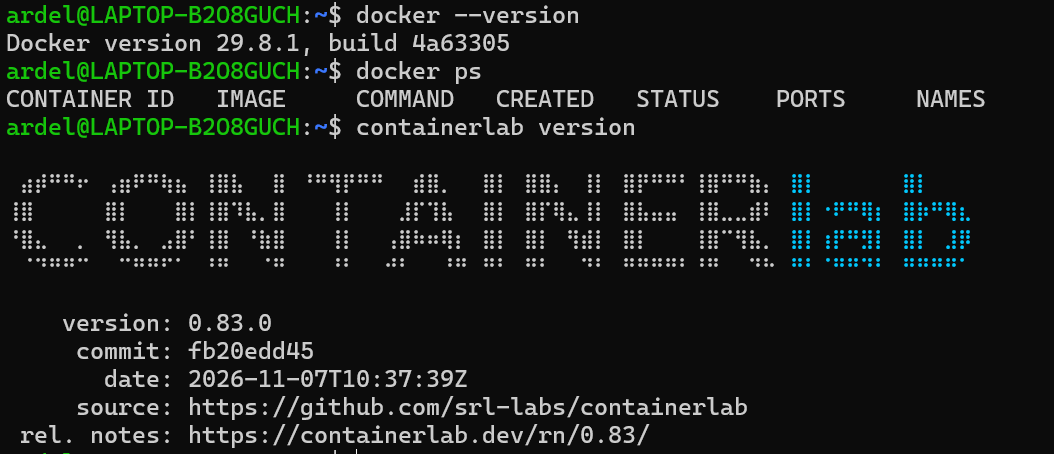
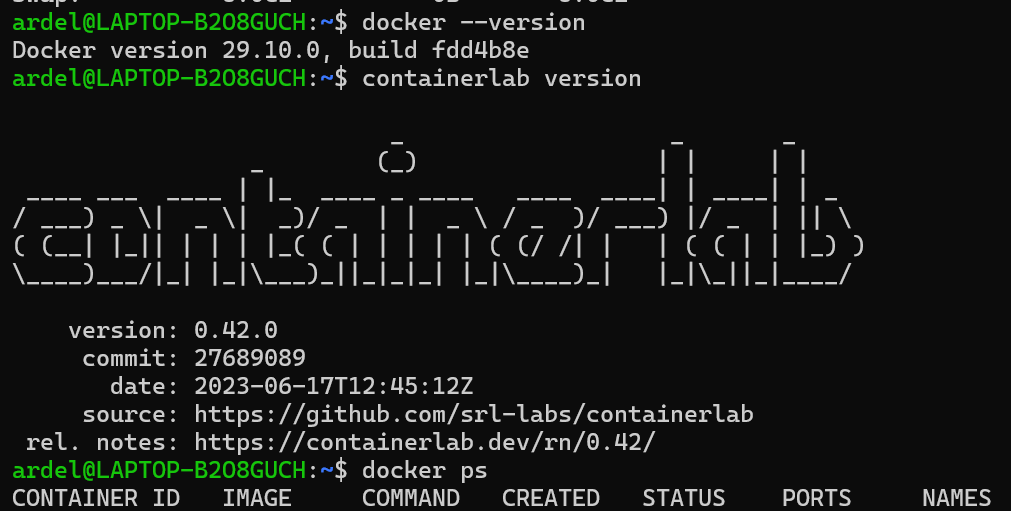
catat deviasi

diff --git a/DEVIASI.md b/DEVIASI.md
@@ -1,0 +1,7 @@
+| Item | Paper/M7 | Yang dipakai | Alasan |
+|---|---|---|---|
+| SR Linux image | 23.2.2 | 23.3.1 | tag 23.2.2 tidak tersedia di ghcr.io/nokia/srlinux (pull: not found) |
+| gNMIc | 2.3.0 | 0.31.4 | kemungkinan salah ketik di paper |
+| Docker | 20.10.21 | Docker Engine terbaru di dalam WSL Ubuntu | Docker Desktop tidak kompatibel dengan Containerlab di WSL (deploy gagal: Link not found); 20.10.21 tidak tersedia di Ubuntu ini |
+| Docker min-api-version | default | 1.24 (daemon.json) | agar Containerlab 0.42.0 terhubung ke Docker baru |
+| Spesifikasi host (Tahap 2, 3, 6) | VM VirtualBox 8 GB RAM, 4 core, Linux Mint 20.2 | WSL2 Ubuntu, batas memori 5 GB, swap 8 GB (laptop 8 GB) | RAM laptop terbatas; dipakai hanya untuk tahap membangun, Tahap 7 di mesin sesuai spesifikasi paper |
